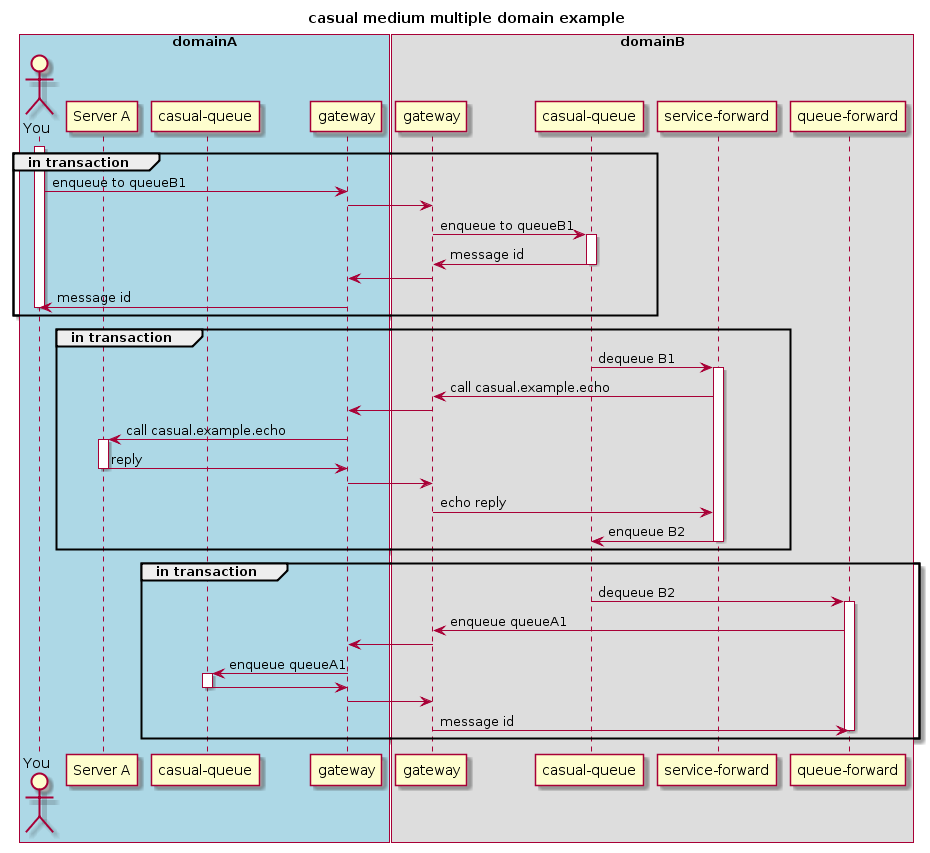
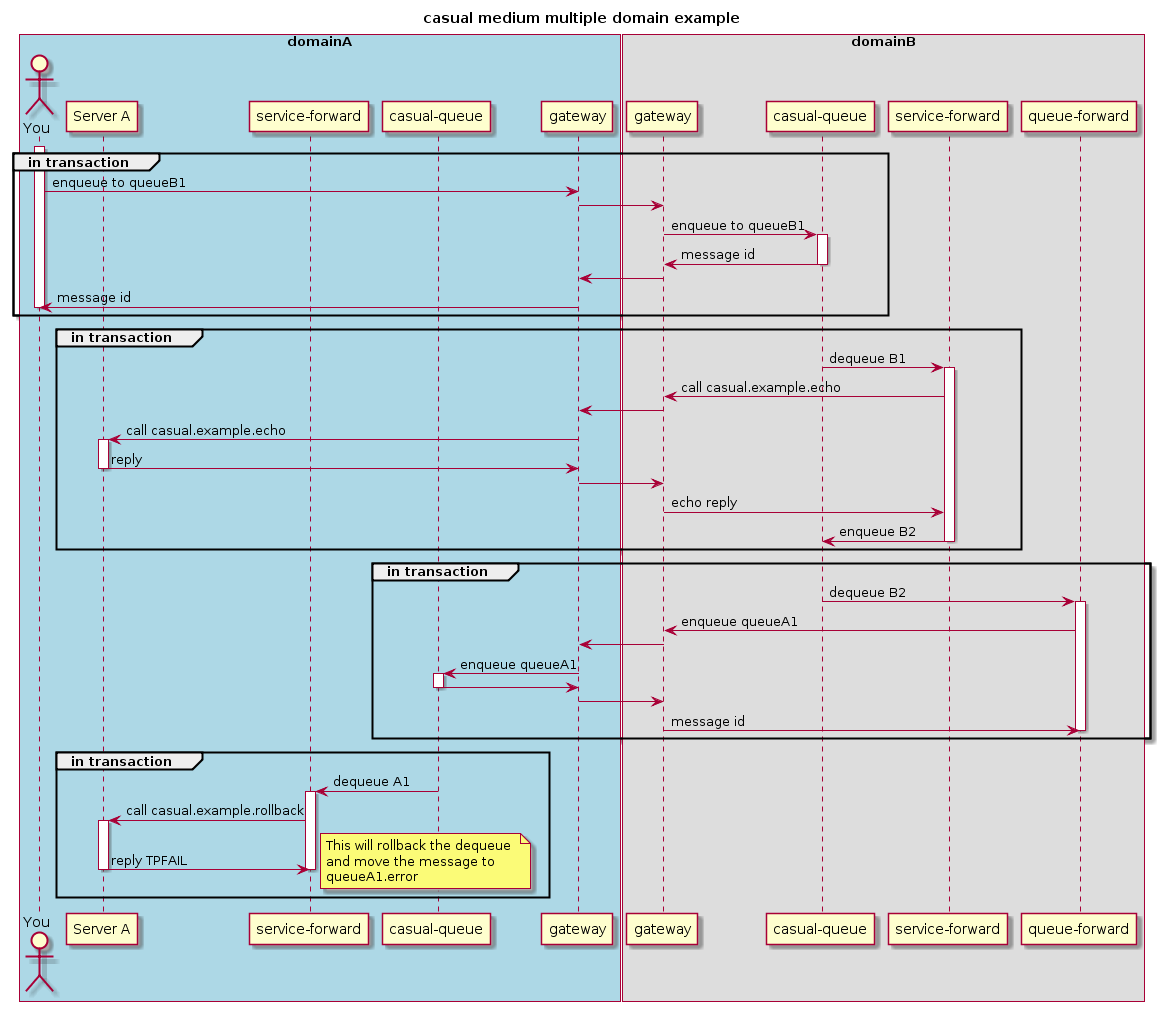
Extended and improved medium domain example

diff --git a/middleware/example/server/source/exmmple.cpp b/middleware/example/server/source/exmmple.cpp
@@ -4,9 +4,8 @@
 
 #include "xatmi.h"
 
-#include "common/process.h"
 
-#include <chrono>
+#include <array>
 
 namespace casual
 {
@@ -18,10 +17,19 @@ namespace casual
 
          extern "C"
          {
-            void casual_example_echo( TPSVCINFO *info)
+            void casual_example_echo( TPSVCINFO* info)
             {
-               //common::process::sleep( std::chrono::milliseconds{ 50});
                tpreturn( TPSUCCESS, 0, info->data, info->len, 0);
+            }
+
+            void casual_example_sink( TPSVCINFO* info)
+            {
+               tpreturn( TPSUCCESS, 0, nullptr, 0, 0);
+            }
+
+            void casual_example_rollback( TPSVCINFO* info)
+            {
+               tpreturn( TPFAIL, 0, info->data, info->len, 0);
             }
 
          }

diff --git a/middleware/example/domain/multiple/medium/medium.md b/middleware/example/domain/multiple/medium/medium.md
@@ -6,6 +6,8 @@
 Explore the abillity of casual to discover resources in remote domains.
 
 We'll set up two domains, **A** and **B**. From within **A** we'll enqueue a message to a queue in **B**. in **B**, a queue-service forward will dequeue the message and call a service in **A** and the reply is enqueued in another queue in **B**. in **B**, a queue-queue forward will dequeue the reply and enqueue it at a queue in **A**.
+A queue service forward dequeue the message and call a service that will abort the transaction, hence the message is moved 
+to the corresponding error queue.
 
 
 ### diagram
@@ -29,14 +31,31 @@ Create a directory where you want your domains to "live"
 
 The following will be used in this example.
 
-    >$ mkdir -p $HOME/casual/example/domain/multiple/medium
-    
+```bash
+host$ mkdir -p $HOME/casual/example/domain/multiple/medium
+```
     
 Copy the domains setup from the example:
 
-    >$ cp -r $CASUAL_HOME/example/domain/multiple/medium/* $HOME/casual/example/domain/multiple/medium/
+```bash
+host$ cp -r $CASUAL_HOME/example/domain/multiple/medium/* $HOME/casual/example/domain/multiple/medium/
+```
 
-If you chose another base directore for this example, please update the following files so they corresponds with your choice 
+### configuration
+
+Each domain has it's configuration in `$CASUAL_DOMAIN_HOME/configuration/domain.yaml`. In our example these will be located at:
+
+* `$HOME/casual/example/domain/multiple/medium/domainA/configuration/domain.yaml`
+* `$HOME/casual/example/domain/multiple/medium/domainB/configuration/domain.yaml`
+
+_The environment variable_ `CASUAL_DOMAIN_HOME` _is the only thing that dictate which domain you're using and working with_
+
+ * [domainA/configuration/domain.yaml](domainA/configuration/domain.yaml)    
+ * [domainB/configuration/domain.yaml](domainB/configuration/domain.yaml) 
+
+
+
+If you chose another base directore for this example, please update the following files so they corresponds with your choice
  
  * [domainA/domain.env](domainA/domain.env)    
  * [domainB/domain.env](domainB/domain.env) 
@@ -45,19 +64,22 @@ If you chose another base directore for this example, please update the followin
 ## start domainA
 
 In terminal A    
-    
-    >$ cd $HOME/casual/example/domain/multiple/medium/domainA
-    >$ source domain.env
-    >$ casual-admin domain --boot 
-    
+
+```bash
+host$ cd $HOME/casual/example/domain/multiple/medium/domainA
+host:domainA$ source domain.env
+host:domainA$ casual-admin domain --boot 
+```
     
 ## start domainB
 
 In terminal B
 
-    >$ cd $HOME/casual/example/domain/multiple/medium/domainB
-    >$ source domain.env
-    >$ casual-admin domain --boot 
+```bash
+host$ cd $HOME/casual/example/domain/multiple/medium/domainB
+host:domainB$ source domain.env
+host:domainB$ casual-admin domain --boot
+```
 
 
 ## interact with the setup
@@ -86,14 +108,15 @@ We have one inbound and one outbound connection to `domain B
 List services
 ```bash
 host:domainA$ casual-admin broker --list-services
-name                                  type  mode  timeout  requested  local  busy  pending  load   remote
-------------------------------------  ----  ----  -------  ---------  -----  ----  -------  -----  ------
-casual.example.echo                      0  join    0.000          0      1     0        0  0.000       0
+name                     type  mode  timeout  invoked  local  load    avg T   tot pending #  avg pending T  remote                 
+-----------------------  ----  ----  -------  -------  -----  ------  ------  -------------  -------------  ------ 
+casual.example.echo         0  join   0.0000        0      1  0.0000  0.0000              0         0.0000       0 
+casual.example.rollback     0  join   0.0000        0      1  0.0000  0.0000              0         0.0000       0 
+casual.example.sink         0  join   0.0000        0      1  0.0000  0.0000              0         0.0000       0 
 ```
 
-_all services starting with `.casual` is casual administration services and omitted in this example_
 
-`casual.example.echo` is advertised from one **local** instance, and no one has requested the service yet.
+`casual.example.echo` and `casual.example.rollback` is advertised from one **local** instance, and no one has requested the services yet.
 
 
 List queus
@@ -129,7 +152,6 @@ name                                  type  mode  timeout  requested  local  bus
 ------------------------------------  ----  ----  -------  ---------  -----  ----  -------  -----  ------
 ```
 
-_all services starting with `.casual` is casual administration services and omitted in this example_
 
 `casual.example.echo` is not yet known in this domain
 
@@ -156,37 +178,40 @@ host:domainA$ echo "test" | casual-admin queue --enqueue queueB1
 bec3b4b3cccd4f3b89faee970518ab7d
 ```
 
-The message should be enqueued to `queueA1` pretty much directly
+The message should be enqueued to `queueA1` and then rollbacked and end up in `queueA1.error` pretty much directly
 
 ```bash
 host:domainA$ casual-admin queue --list-queues
-name                  count  size  avg  uc  updated                  r  error queue           group   
+name                  count  size  avg  uc  updated                  r  error queue           group    
 --------------------  -----  ----  ---  --  -----------------------  -  --------------------  --------
-queueA1                   1     6    6   0  2016-11-20T15:29:19.877  0  queueA1.error         domain-A
-queueA1.error             0     0    0   0  2016-11-20T15:17:34.068  0  domain-A.group.error  domain-A
-domain-A.group.error      0     0    0   0  2016-11-20T15:17:34.062  0  domain-A.group.error  domain-A
+queueA1                   0     0    0   0  2016-12-17T14:45:13.119  0  queueA1.error         domain-A
+queueA1.error             1     6    6   0  2016-12-17T14:42:53.620  0  domain-A.group.error  domain-A
+domain-A.group.error      0     0    0   0  2016-12-17T14:42:53.614  0  domain-A.group.error  domain-A
 ```
 
-The service `casual.example.echo` should be reqeusted once
+
+
+The service `casual.example.echo` should be reqeusted once (the call from remote domain B).
+The service `casual.example.rollback` should be reqeusted once from the forward in this domain.
 
 ```bash
 host:domainA$ casual-admin broker --list-services
-name                                  type  mode  timeout  requested  local  busy  pending  load   remote
-------------------------------------  ----  ----  -------  ---------  -----  ----  -------  -----  ------
-casual.example.echo                      0  join    0.000          1      1     0        0  0.000       0
+name                     type  mode  timeout  invoked  local  load    avg T   tot pending #  avg pending T  remote
+-----------------------  ----  ----  -------  -------  -----  ------  ------  -------------  -------------  ------
+casual.example.echo         0  join   0.0000        1      1  0.0000  0.0002              0         0.0000       0
+casual.example.rollback     0  join   0.0000        1      1  0.0000  0.0002              0         0.0000       0
+casual.example.sink         0  join   0.0000        0      1  0.0000  0.0000              0         0.0000       0
 ```
+
 
 In `domain B`, `casual.example.echo` should be known with no local instances:
 
 ```bash
 host:domainB$ casual-admin broker --list-services
-name                                  type  mode  timeout  requested  local  busy  pending  load   remote
-------------------------------------  ----  ----  -------  ---------  -----  ----  -------  -----  ------
-casual.example.echo                      0  join    0.000          1      0     0        0  0.000       1
+name                 type  mode  timeout  invoked  local  load    avg T   tot pending #  avg pending T  remote
+-------------------  ----  ----  -------  -------  -----  ------  ------  -------------  -------------  ------
+casual.example.echo     0  join   0.0000        1      0  0.0000  0.0000              0         0.0000       1
 ```
-
-
-
 
 
 
